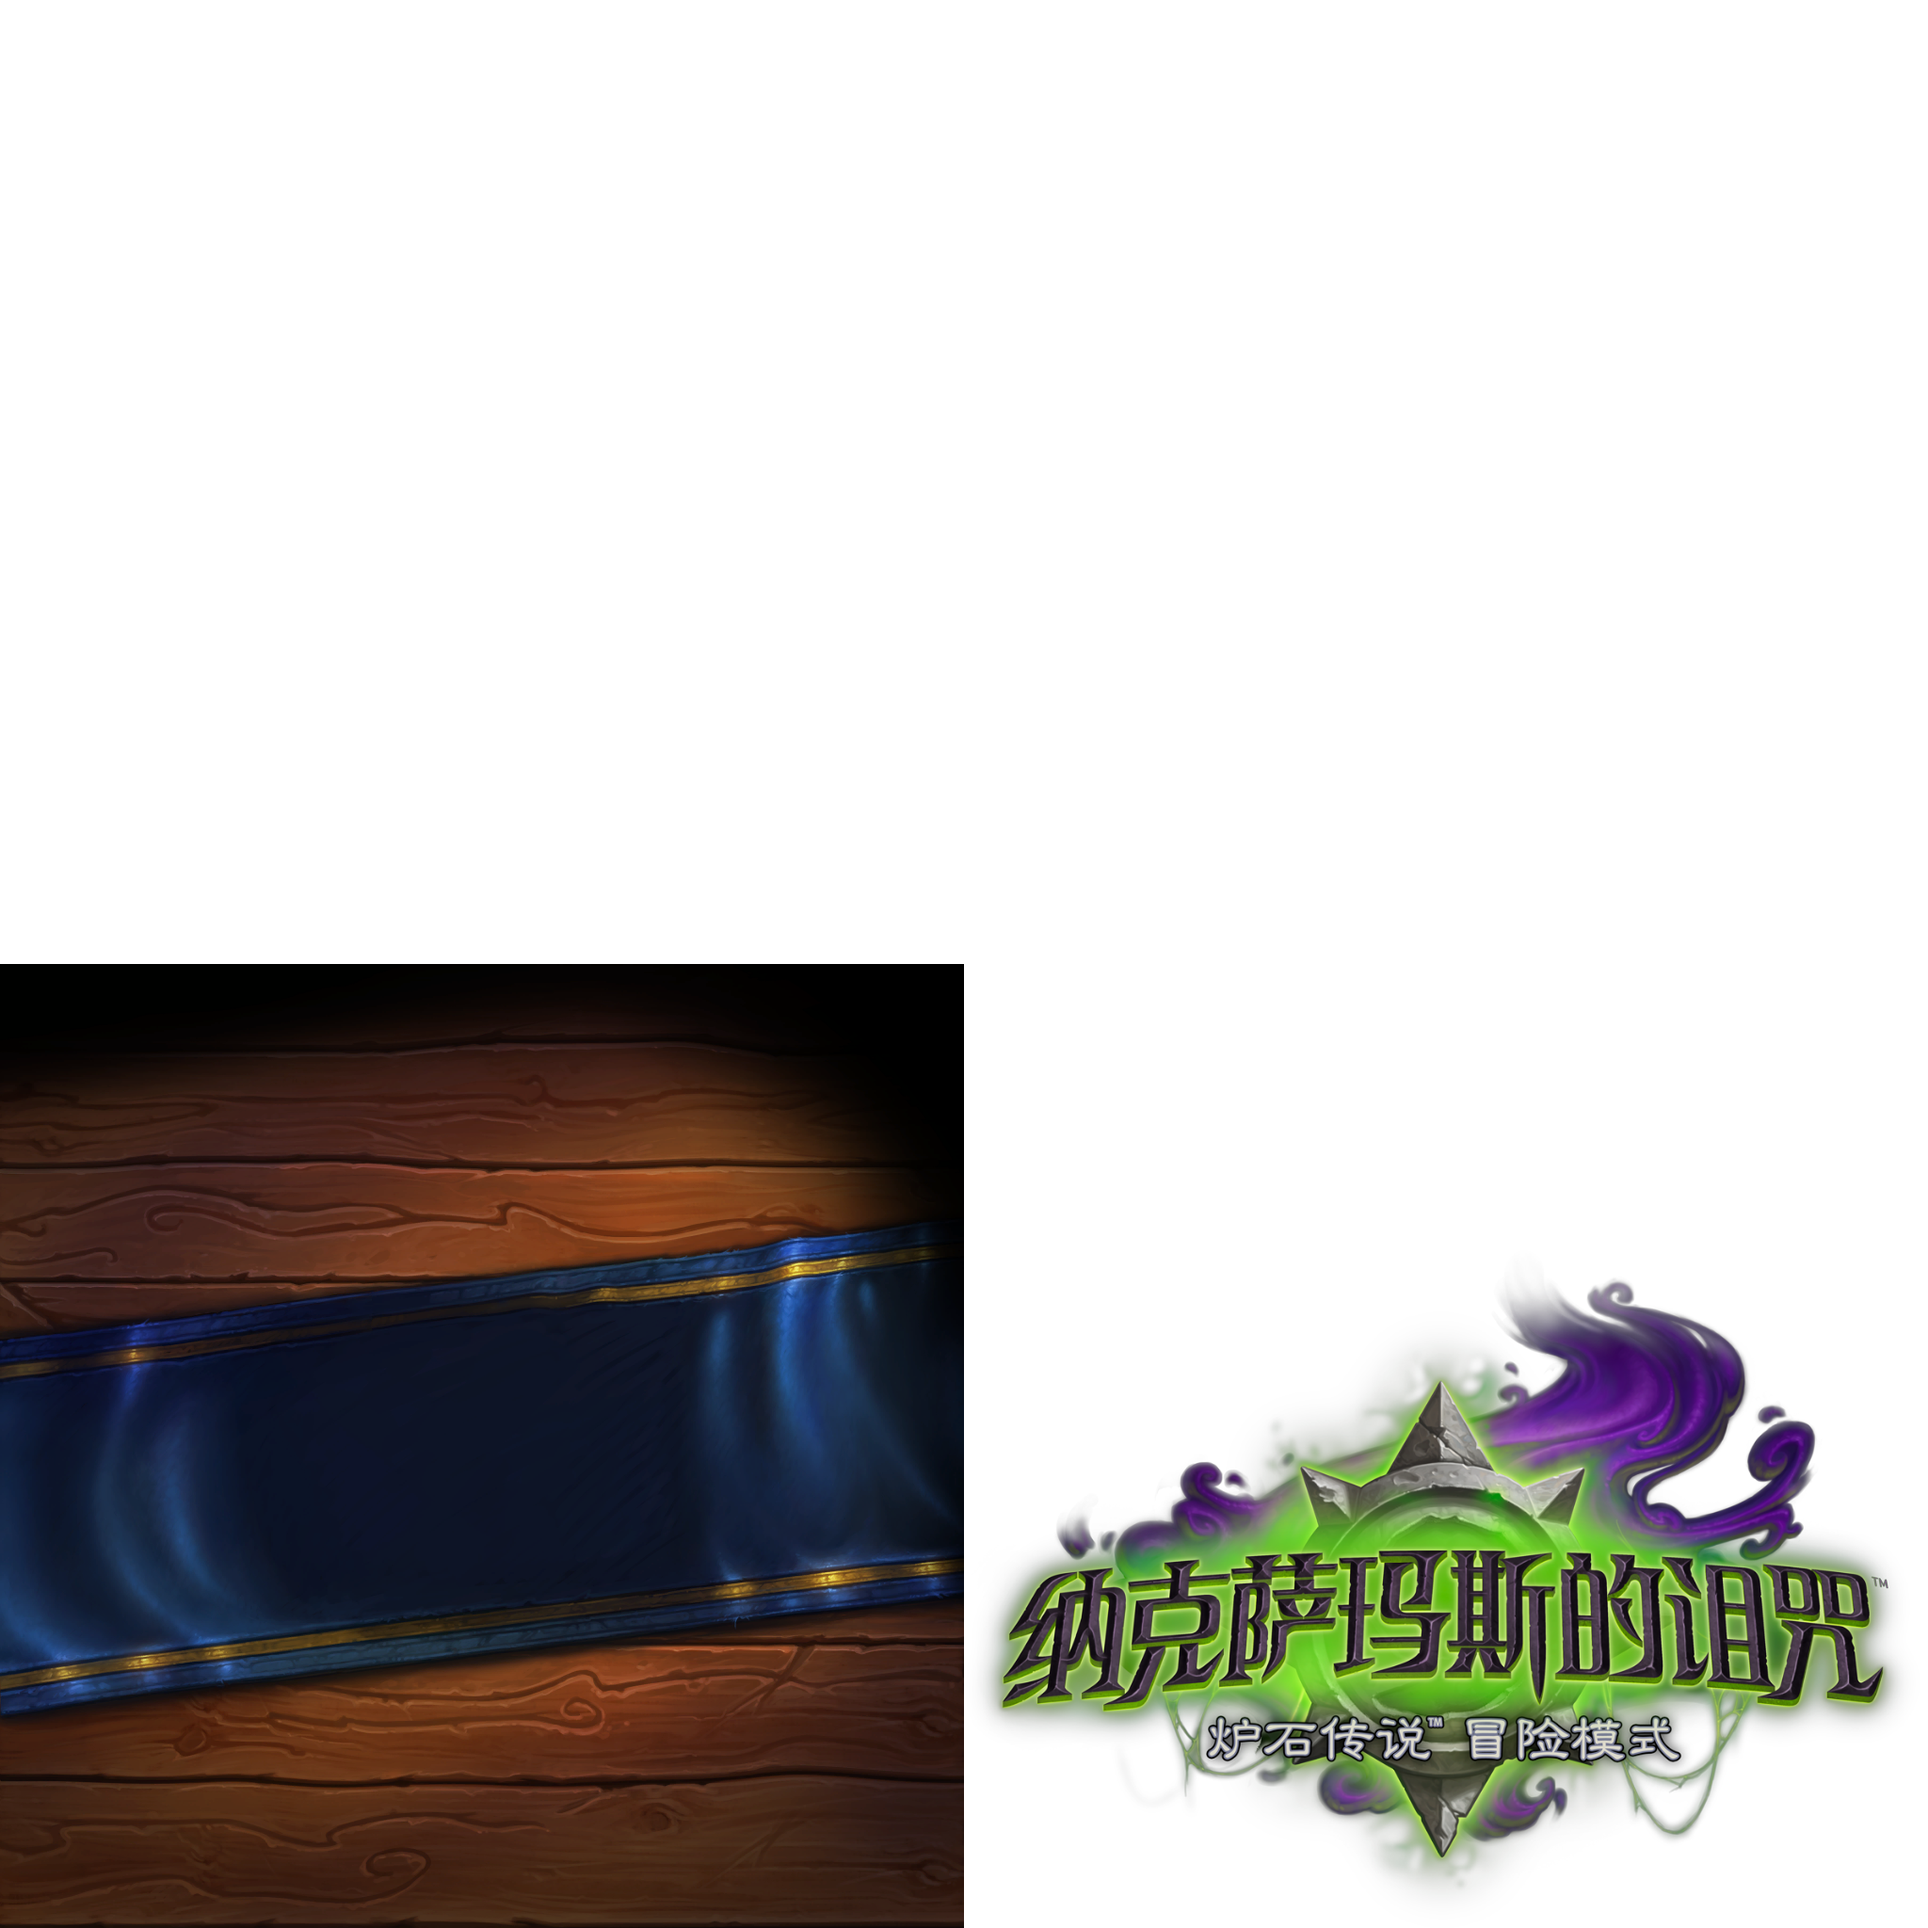
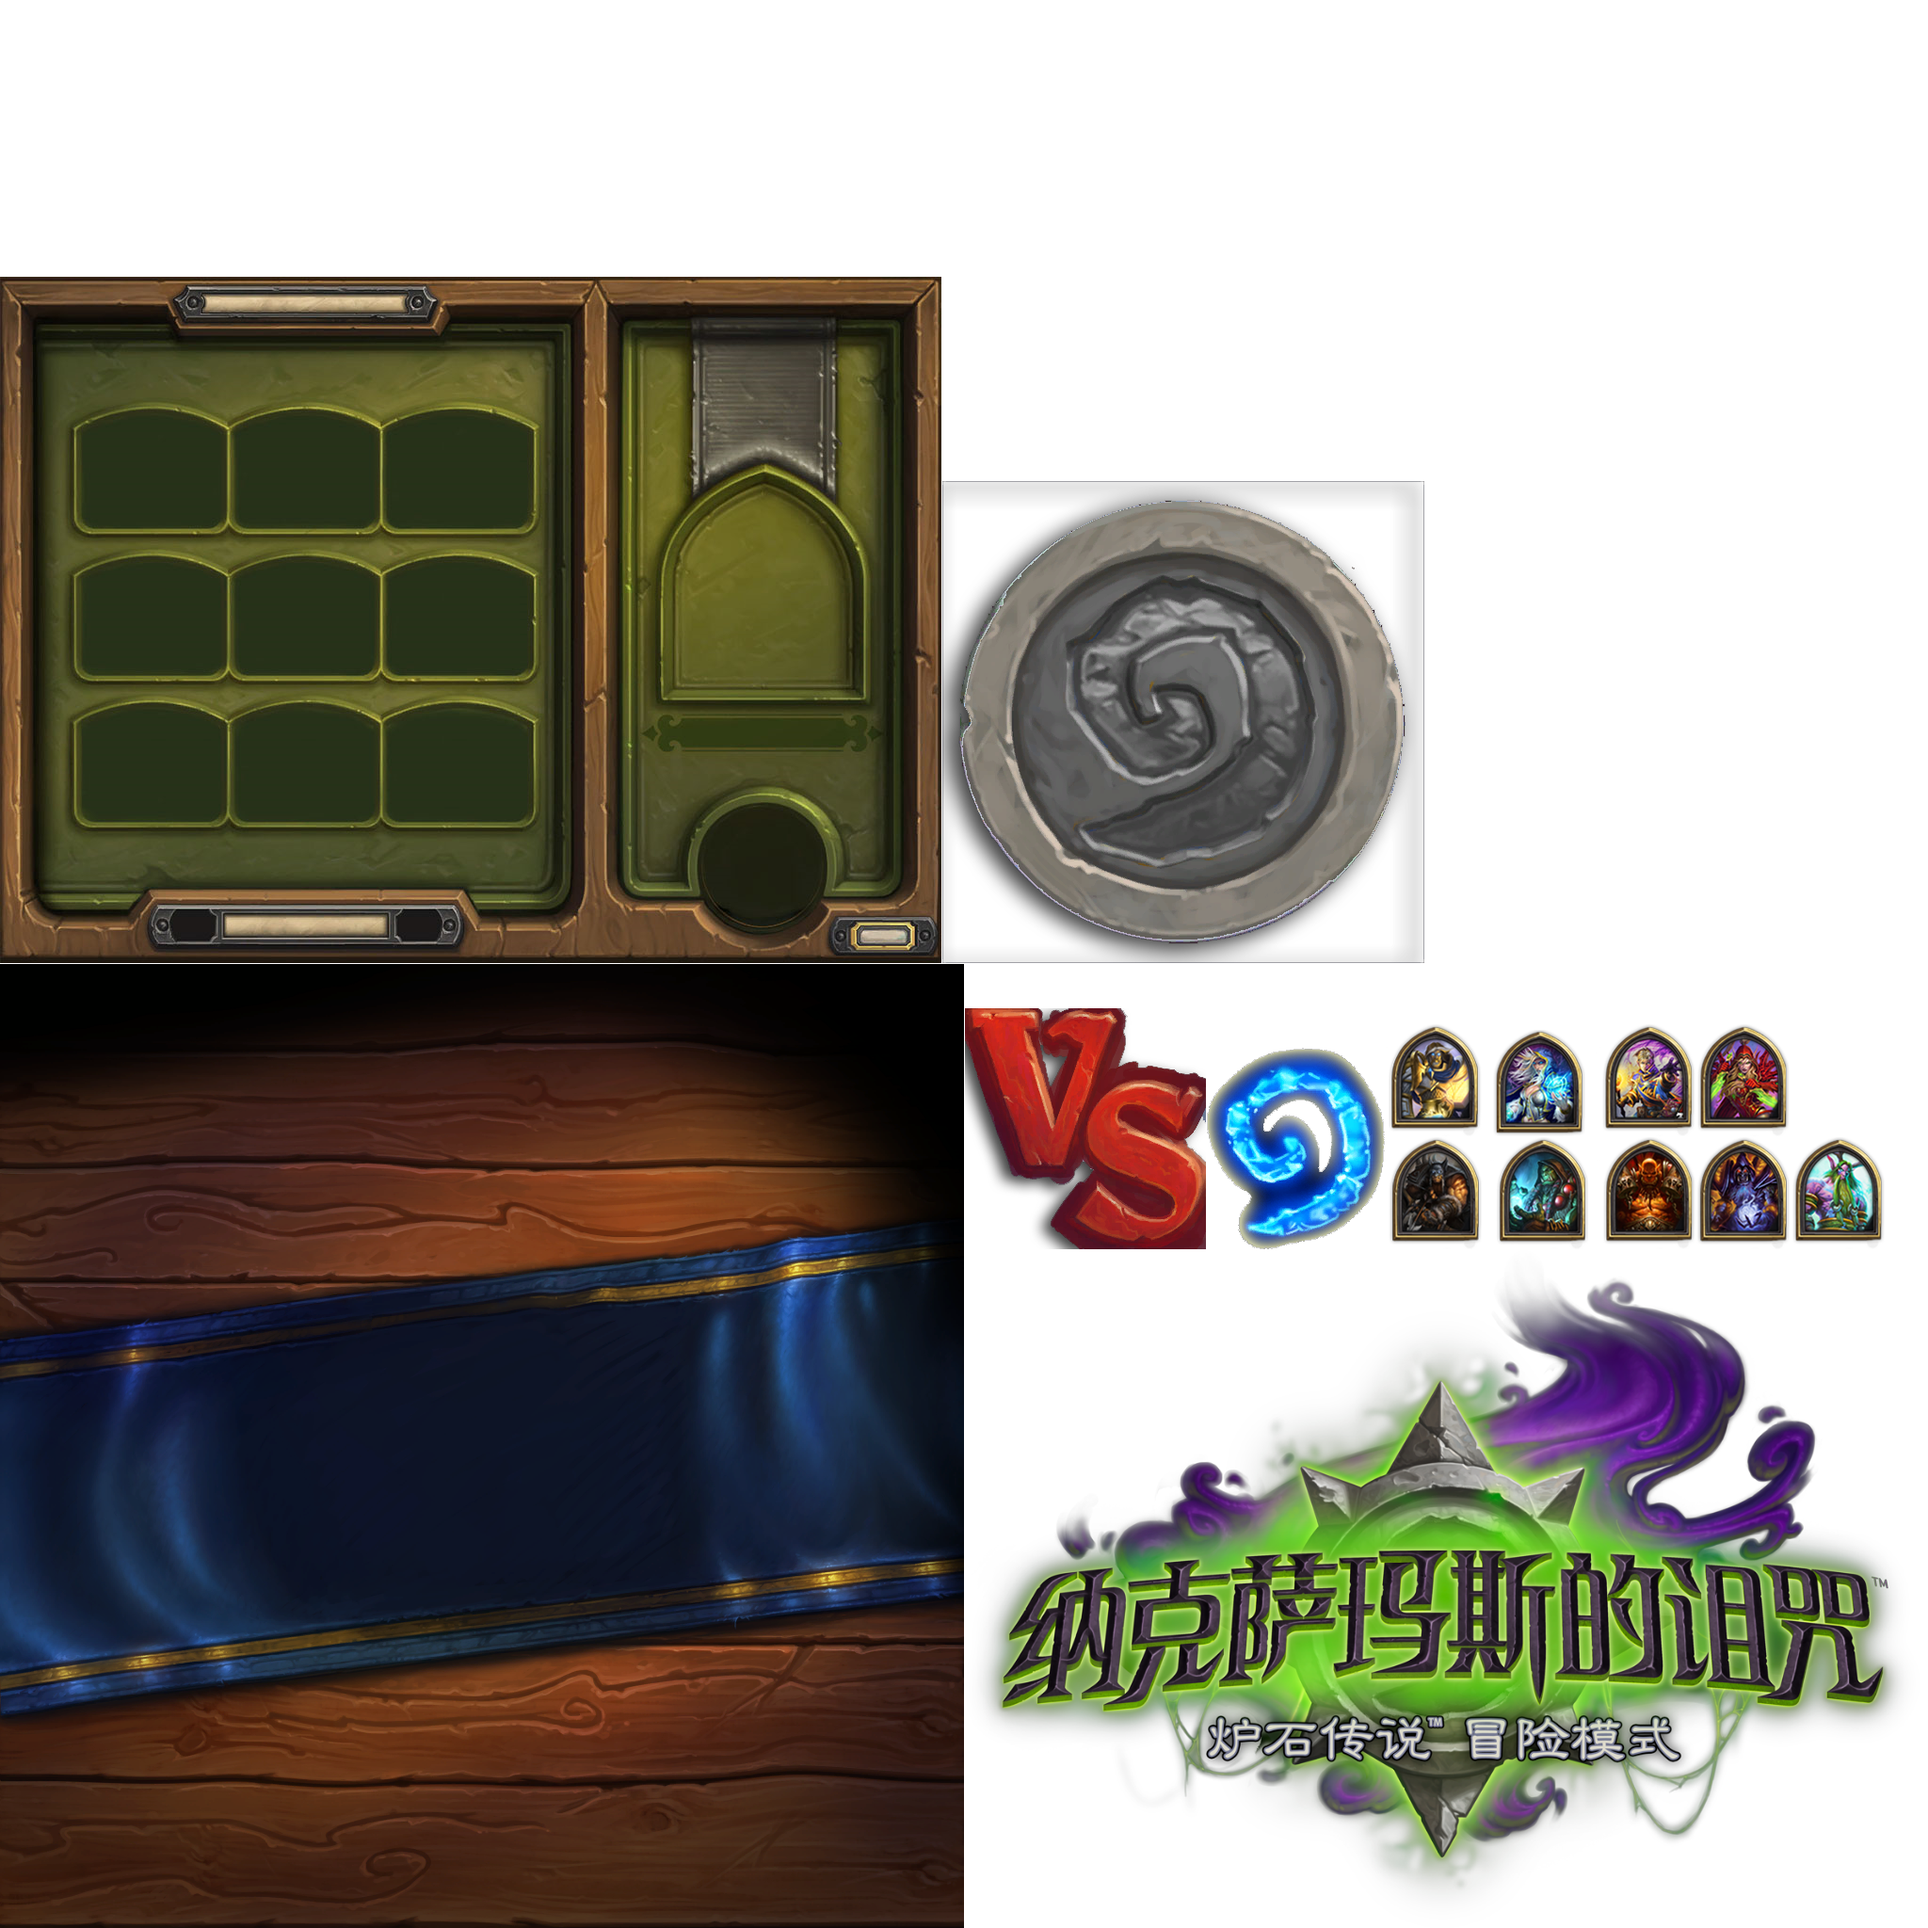
2015.8.7

Changed region(s): [[0.0, 0.125, 1.0, 0.6562]]

diff --git a/Assets/Scripts/SelectRole.cs b/Assets/Scripts/SelectRole.cs
@@ -1,0 +1,47 @@
+using UnityEngine;
+using System.Collections;
+
+/*
+ * Description: 选角界面
+ * Author:      JiangShu
+ * Create Time: 2015/8/7 15:11:56
+ */
+public class SelectRole : MonoBehaviour
+{
+    private string[] HERO_NAME = {
+                                            "吉安娜·普罗德摩尔",
+                                            "雷克萨",
+                                            "乌瑟尔•光明使者",
+                                            "加尔鲁什•地狱咆哮",
+                                            "玛法里奥•怒风",
+                                            "古尔丹",
+                                            "萨尔",
+                                            "安杜因•乌瑞恩",
+                                            "瓦莉拉•萨古纳尔"
+                                       };
+
+    public UISprite[] heros;
+    public UISprite selectHero;
+    public UILabel selectName;
+
+    void Start()
+    {
+        foreach(UISprite hero in heros)
+        {
+            UIEventListener.Get(hero.gameObject).onClick += OnClickHero;
+        }
+    }
+    void Update()
+    {
+
+    }
+    private void OnClickHero(GameObject go)
+    {
+        string heroName = go.name;
+        char heroIndexChar = heroName[4];
+        int heroIndex = heroIndexChar - '0';
+
+        selectHero.spriteName = heroName;
+        selectName.text = HERO_NAME[heroIndex - 1];
+    }
+}

diff --git a/Assets/Scripts/VSShow.cs b/Assets/Scripts/VSShow.cs
@@ -1,0 +1,37 @@
+using UnityEngine;
+using System.Collections;
+
+/*
+ * Description: VSShow
+ * Author:      JiangShu
+ * Create Time: 2015/8/7 15:37:42
+ */
+public class VSShow : MonoBehaviour
+{
+    public static VSShow instance;
+
+    public TweenPosition hero1Tween;
+    public TweenPosition hero2Tween;
+    public TweenScale vsTween;
+
+    void Start()
+    {
+        instance = this;
+
+        Show("hero3", "hero4");
+    }
+    void Update()
+    {
+
+    }
+
+    public void Show(string name1,string name2)
+    {
+        hero1Tween.GetComponent<UISprite>().spriteName = name1;
+        hero2Tween.GetComponent<UISprite>().spriteName = name2;
+
+        hero1Tween.PlayForward();
+        hero2Tween.PlayForward();
+        vsTween.PlayForward();
+    }
+}

diff --git a/Assets/Scripts/BlackMask.cs b/Assets/Scripts/BlackMask.cs
@@ -1,0 +1,21 @@
+using UnityEngine;
+using System.Collections;
+
+/*
+ * Description: BlackMask
+ * Author:      JiangShu
+ * Create Time: 2015/8/7 15:28:50
+ */
+public class BlackMask : MonoBehaviour
+{
+    public static BlackMask instance;
+    void Start()
+    {
+        instance = this;
+        
+    }
+    void Update()
+    {
+
+    }
+}

diff --git a/Assets/Scripts/StartMenu.cs b/Assets/Scripts/StartMenu.cs
@@ -30,6 +30,7 @@ public class StartMenu : MonoBehaviour
                 else
                     StopMov();
             }
+
         }
         if(isDrawMov != movTexture.isPlaying)
         {
